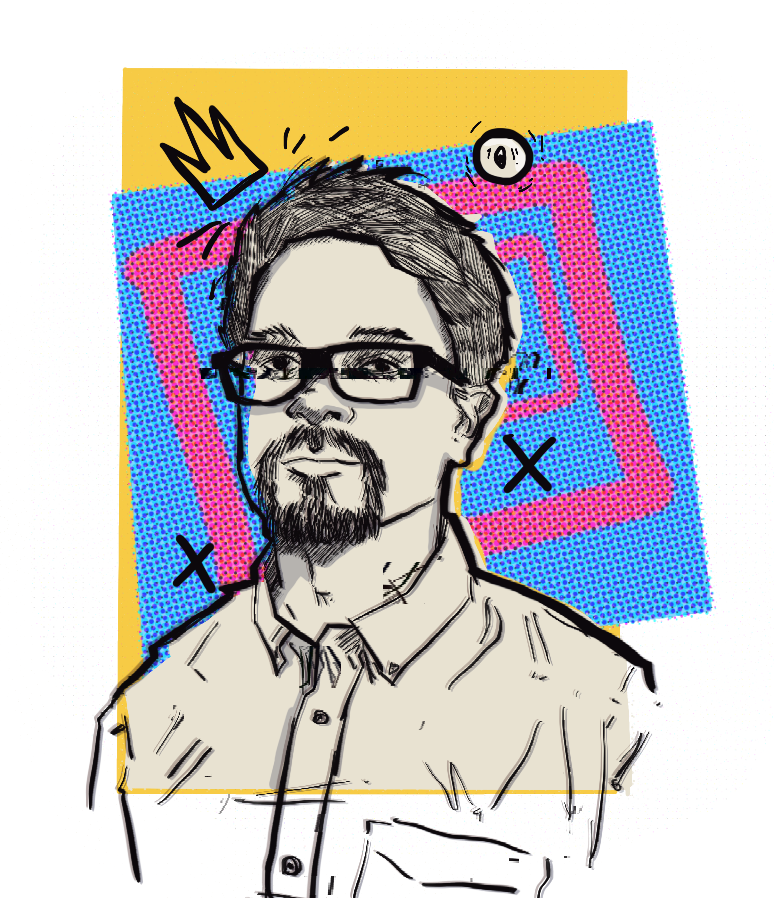
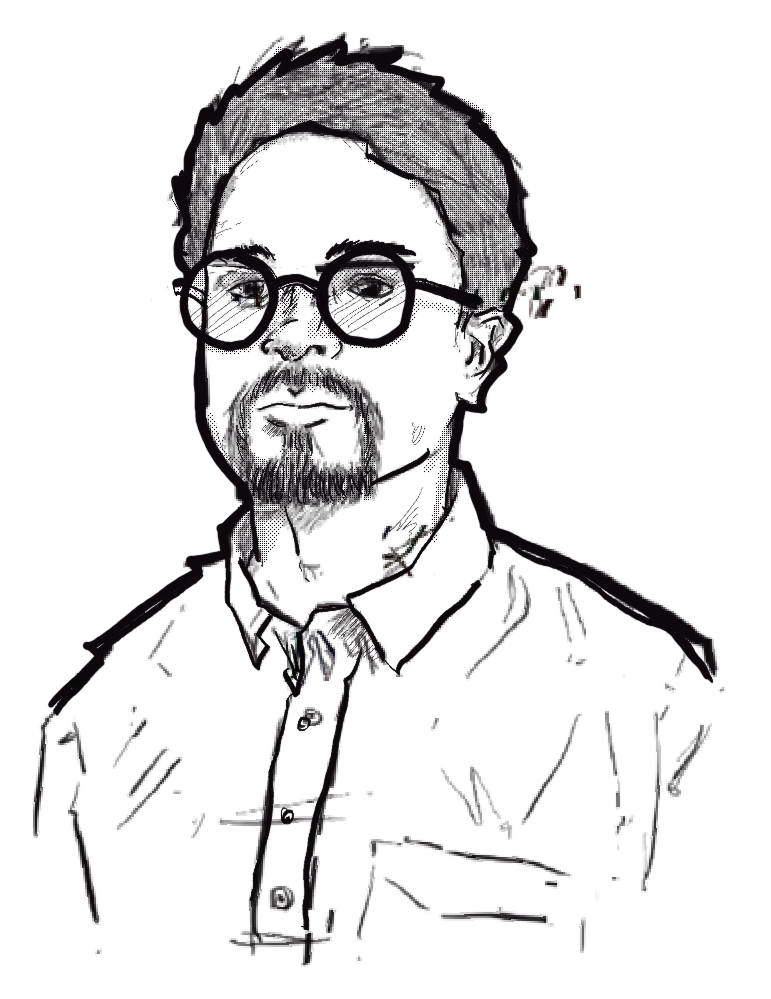
updated images

diff --git a/_sass/_portfolio.scss b/_sass/_portfolio.scss
@@ -1752,7 +1752,9 @@ body.portfolio-full {
   body.blog-landing {
     display: grid;
     grid-template-columns: 1fr 400px;
-    grid-template-rows: 100dvh auto;
+    grid-template-rows: 100dvh;
+    height: 100dvh;
+    overflow: hidden;
   }
 
   body.blog-landing .main-header {
@@ -1769,11 +1771,5 @@ body.portfolio-full {
     grid-row: 1 / 2;
     height: 100dvh;
     overflow-y: auto;
-  }
-
-  // footer spans the full width below the split
-  body.blog-landing .portfolio-contact-footer {
-    grid-column: 1 / 3;
-    grid-row: 2 / 3;
   }
 }

diff --git a/_layouts/default.html b/_layouts/default.html
@@ -143,7 +143,9 @@
     {% endif %}
     {% include portfolio-header.html %}
     <div id="main" role="main" class="container">{{ content }}</div>
+    {% unless page.body_class contains 'blog-landing' %}
     {% include portfolio-footer.html %}
+    {% endunless %}
     {% include analytics.html %}
     {% if page.body_class contains 'portfolio-landing' %}
     <script src="{{ '/assets/js/dot-field.js' | relative_url }}" defer></script>

diff --git a/blog.md b/blog.md
@@ -6,7 +6,7 @@ body_class: portfolio-landing blog-landing
 ---
 <div class="posts">
   <h2 class="blog-title">↓blog↓</h2>
-  {% for post in site.posts limit:15 %}
+  {% for post in site.posts %}
     <article class="post">
       {% if post.feature %}
         <a href="{{ site.baseurl }}{{ post.url }}"